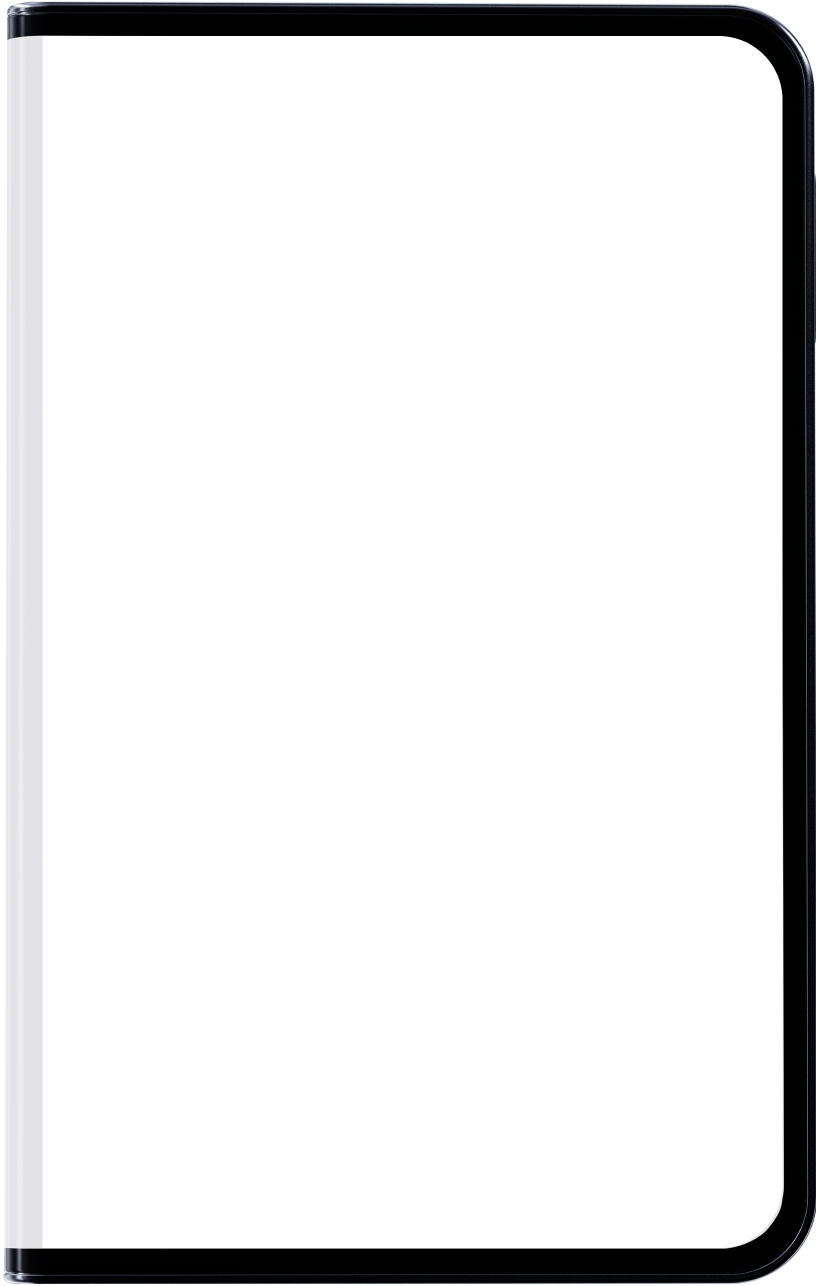
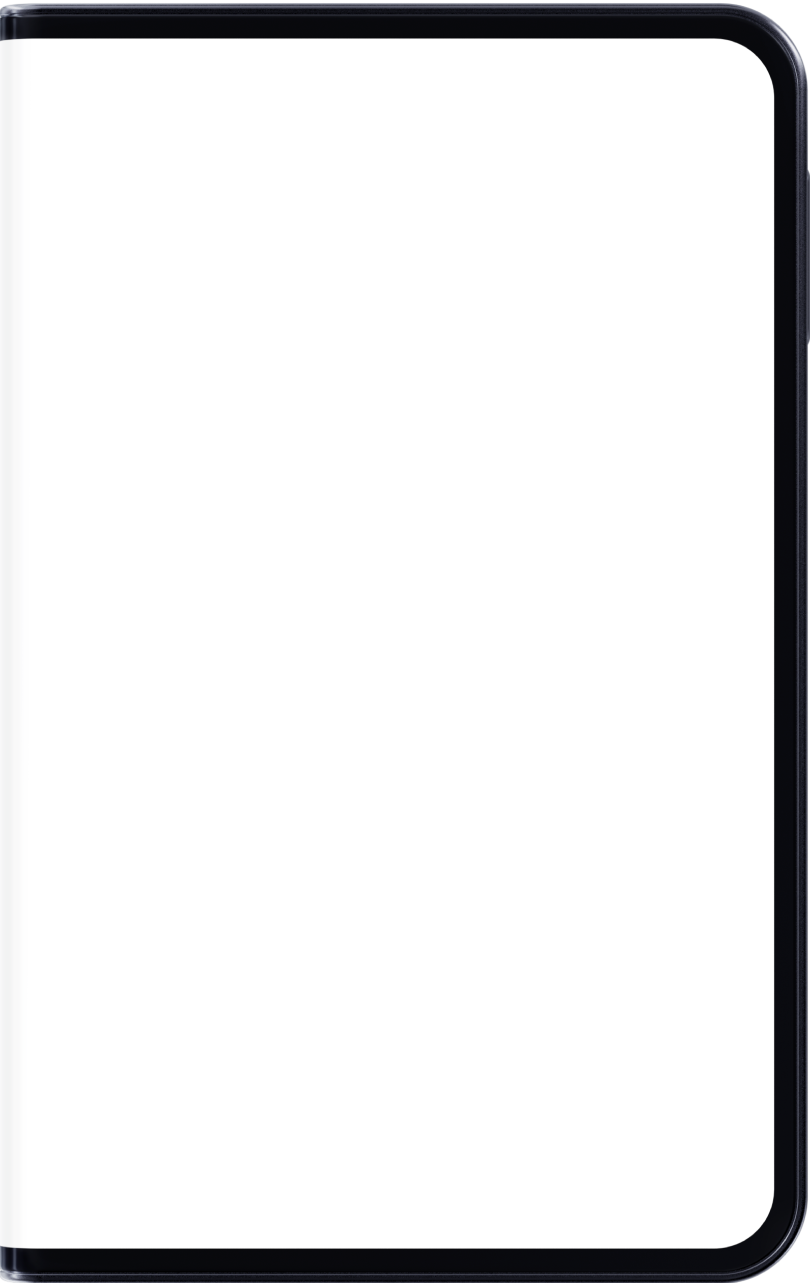
Replace asset for custom lock screen preview frame

Changed region(s): [[0.0, 0.0, 1.0, 1.0]]

diff --git a/apps/ledger-live-mobile/src/components/CustomImage/FramedImage.tsx b/apps/ledger-live-mobile/src/components/CustomImage/FramedImage.tsx
@@ -3,7 +3,6 @@ import { Box, Flex } from "@ledgerhq/native-ui";
 import React, { ComponentProps, useContext } from "react";
 import { Image, ImageProps, StyleSheet } from "react-native";
 import styled from "styled-components/native";
-// import { targetDimensions } from "../../screens/CustomImage/shared";
 import ForceTheme from "../theme/ForceTheme";
 // import { scaleDimensions } from "./imageUtils";
 import transferBackground from "./assets/transferBackground.png";
@@ -59,13 +58,13 @@ export const transferLottieConfig: FrameConfig = {
 };
 
 export const previewConfig: FrameConfig = {
-  frameHeight: 321.36,
-  frameWidth: 204,
-  innerWidth: 185,
-  innerHeight: 303,
-  innerRight: 8.2,
-  innerTop: 8.7,
-  borderRightRadius: 15.6,
+  frameHeight: 320.62,
+  frameWidth: 202.5,
+  innerWidth: 180,
+  innerHeight: 302.4,
+  innerRight: 8.96,
+  innerTop: 9.2,
+  borderRightRadius: 14.4,
   backgroundSource: previewBackground,
   resizeMode: "cover",
 };
